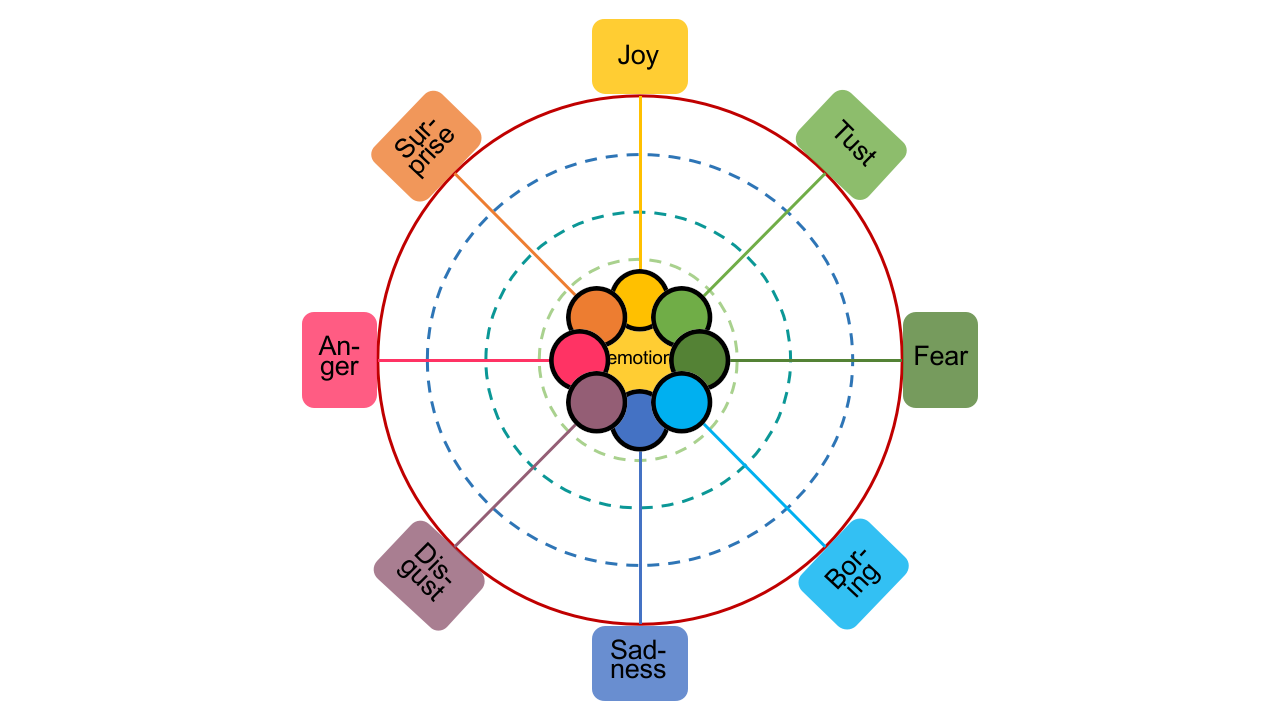
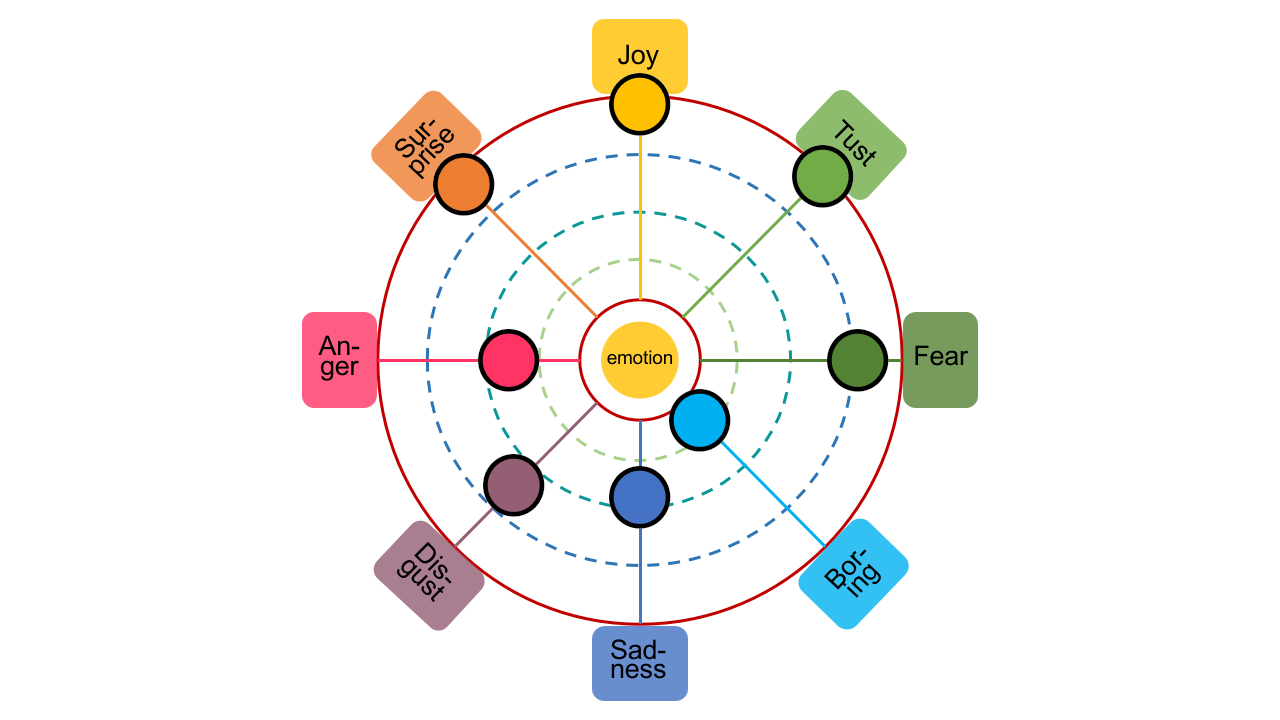
情感模块添加FAKE随机；行为模块发布UI专属指令

diff --git a/emotion_module/scripts/Data_processing.py b/emotion_module/scripts/Data_processing.py
@@ -18,6 +18,7 @@ from visualize_3d import *
 from social_msg.msg import robot_emotion
 from collections import deque
 from social_msg.msg import attitude_query  
+import random
 
 ##### 全局参数初始化
 local_attitude_set =[]
@@ -76,14 +77,52 @@ def publish():
        '''
        eval=robot_emotion()
        global current_e
-       eval.emotion1 = current_e[0]
-       eval.emotion2 = current_e[1]
-       eval.emotion3 = current_e[2]
-       eval.emotion4 = current_e[3]
-       eval.emotion5 = current_e[4]
-       eval.emotion6 = current_e[5]
-       eval.emotion7 = current_e[6]
-       eval.emotion8 = current_e[7]
+       # REAL
+       # eval.emotion1 = current_e[0]
+       # eval.emotion2 = current_e[1]
+       # eval.emotion3 = current_e[2]
+       # eval.emotion4 = current_e[3]
+       # eval.emotion5 = current_e[4]
+       # eval.emotion6 = current_e[5]
+       # eval.emotion7 = current_e[6]
+       # eval.emotion8 = current_e[7]
+       
+       # FAKE
+       if current_e[0]>current_e[3]-0.2:
+              random1 = random.uniform(0.5, 0.7)
+              eval.emotion1 = current_e[0] + random1
+              random2 = random.uniform(0.4, 0.5) 
+              eval.emotion2 = current_e[1] + random2
+              random3 = random.uniform(0.4, 0.5) 
+              eval.emotion3 = current_e[2] + random3
+              random4 = random.uniform(0.1, 0.4)
+              eval.emotion4 = current_e[3] + random4
+              random5 = random.uniform(0.1, 0.4)
+              eval.emotion5 = current_e[4] + random5
+              random6 = random.uniform(0.1, 0.4)
+              eval.emotion6 = current_e[5] + random6
+              random7 = random.uniform(0.1, 0.4)
+              eval.emotion7 = current_e[6] + random7
+              random8 = random.uniform(0.1, 0.2)
+              eval.emotion8 = current_e[7] + random8
+       else:
+              random1 = random.uniform(0.1, 0.4)
+              eval.emotion1 = current_e[0] + random1
+              random2 = random.uniform(0.1, 0.4)
+              eval.emotion2 = current_e[1] + random2
+              random3 = random.uniform(0.1, 0.4)
+              eval.emotion3 = current_e[2] + random3
+              random4 = random.uniform(0.4, 0.5) 
+              eval.emotion4 = current_e[3] + random4
+              random5 = random.uniform(0.4, 0.5) 
+              eval.emotion5 = current_e[4] + random5
+              random6 = random.uniform(0.4, 0.5) 
+              eval.emotion6 = current_e[5] + random6
+              random7 = random.uniform(0.4, 0.5) 
+              eval.emotion7 = current_e[6] + random7
+              random8 = random.uniform(0.1, 0.2)
+              eval.emotion8 = current_e[7] + random8
+
        pub.publish(eval)
        if print_state:
               rospy.loginfo("机器人情感: %f,%f,%f,%f,%f,%f,%f,%f\n", eval.emotion1,eval.emotion2,eval.emotion3,eval.emotion4,eval.emotion5,eval.emotion6,eval.emotion7,eval.emotion8 )
@@ -98,6 +137,7 @@ def caculate_edelta(csv_name,index_name,index_val,column_val):
        :param column_val: 传入的消息内容中对应列索引值大小
        :output t: 依据消息和csv文档索引得到的情绪变化强度值
        '''
+       print('[debug]csv_name:',csv_name)
        tmp_lst = []
        with open(csv_name, 'r') as f:
               reader = csv.reader(f)
@@ -129,7 +169,7 @@ def unique_judge(msg):
               #print("unique_msg:",unique_msg)
               flag=0;
               l=copy.deepcopy(unique_msg)
-              # 判断两个消息列表中差集元素是否大于1
+              # 判断两个消息列表中差集元素是否大于1wu
               if len(set(l[-1]).symmetric_difference(set(msg)))>2:
                      unique_msg.append(msg)
                      flag=1

diff --git a/emotion_module/scripts/Image_talker.py b/emotion_module/scripts/Image_talker.py
@@ -4,20 +4,21 @@
 import rospy
 import os
 from std_msgs.msg import Header
-from sensor_msgs.msg import Image
+from sensor_msgs.msg import CompressedImage
 import cv2
 import numpy as np
 import time
+from cv_bridge import CvBridge
 IMAGE_WIDTH=1280
 IMAGE_HEIGHT=720
 
 rospy.init_node('Image_talker', anonymous=True)
-pub = rospy.Publisher('emotion_img', Image, queue_size=1)
-rate = rospy.Rate(1) # 1hz
+pub = rospy.Publisher('emotion_img', CompressedImage, queue_size=1)
+rate = rospy.Rate(3) # 1hz
 
 def publish_image(imgdata):
     while not rospy.is_shutdown():
-        image_temp=Image()
+        image_temp=CompressedImage()
         header = Header(stamp=rospy.Time.now())
         header.frame_id = 'map'
         image_temp.height=IMAGE_HEIGHT
@@ -36,20 +37,16 @@ def publish_image2(imgdata):
     while not rospy.is_shutdown():
         current_folder = os.path.dirname(os.path.abspath(__file__))
         print("Current folder:", current_folder)
-        imgdata=cv2.imread('/home/peng/codes/project3_ws/src/FaboEmotionNeedBehavior/emotion_module/image/emotion_img.png')      
-        image_temp=Image()
-        header = Header(stamp=rospy.Time.now())
-        header.frame_id = 'map'
-        image_temp.height=IMAGE_HEIGHT
-        image_temp.width=IMAGE_WIDTH
-        image_temp.encoding='rgb8'
-        image_temp.data=np.array(imgdata).tostring()
-        #print(imgdata)
-        #image_temp.is_bigendian=True
-        image_temp.header=header
-        image_temp.step=1241*3
-        pub.publish(image_temp)
-        rospy.loginfo("图片成功发布")
+        imgdata=cv2.imread('/home/peng/codes/project3_ws/src/FaboEmotionNeedBehavior/emotion_module/image/emotion_img.png')  
+        # print("width:%d",imgdata.shape[1])
+        # print("height:%d",imgdata.shape[0])
+        if imgdata is not None:
+            imgdata = imgdata[0:720,280:1000]    
+            # print("width2:%d",imgdata.shape[1])
+            # print("height2:%d",imgdata.shape[0])
+            image_temp=CvBridge().cv2_to_compressed_imgmsg(imgdata,'jpg')
+            pub.publish(image_temp)
+            rospy.loginfo("图片成功发布")
         rate.sleep()
 
 if __name__ == '__main__':

diff --git a/emotion_module/scripts/main.py b/emotion_module/scripts/main.py
@@ -17,6 +17,7 @@ from social_msg.msg import attitude_set
 from social_msg.msg import perception_msg
 from social_msg.msg import attitude_query  
 from social_msg.msg import idleState
+import random
 # 是否开始print
 print_state = True
 
@@ -152,6 +153,41 @@ def visualization():
         '''
         e_list =['{:.4f}'.format(i) for i in current_e]
         e_list=[float(i) for i in e_list] #当前情绪强度向量
+        # FAKE
+        if e_list[0]>e_list[3]-0.2:
+              random1 = random.uniform(0.5, 0.7)
+              e_list[0] = e_list[0] + random1
+              random2 = random.uniform(0.4, 0.5) 
+              e_list[1] = e_list[1] + random2
+              random3 = random.uniform(0.4, 0.5) 
+              e_list[2] = e_list[2] + random3
+              random4 = random.uniform(0.1, 0.4)
+              e_list[3] = e_list[3] + random4
+              random5 = random.uniform(0.1, 0.4)
+              e_list[4] = e_list[4] + random5
+              random6 = random.uniform(0.1, 0.4)
+              e_list[5] = e_list[5] + random6
+              random7 = random.uniform(0.1, 0.4)
+              e_list[6] = e_list[6] + random7
+              random8 = random.uniform(0.1, 0.2)
+              e_list[7] = e_list[7] + random8
+        else:
+              random1 = random.uniform(0.1, 0.4)
+              e_list[0] = e_list[0] + random1
+              random2 = random.uniform(0.1, 0.4)
+              e_list[1] = e_list[1] + random2
+              random3 = random.uniform(0.1, 0.4)
+              e_list[2] = e_list[2] + random3
+              random4 = random.uniform(0.4, 0.5) 
+              e_list[3] = e_list[3] + random4
+              random5 = random.uniform(0.4, 0.5) 
+              e_list[4] = e_list[4] + random5
+              random6 = random.e_list(0.4, 0.5) 
+              e_list[5] = e_list[5] + random6
+              random7 = random.uniform(0.4, 0.5) 
+              e_list[6] = e_list[6] + random7
+              random8 = random.uniform(0.1, 0.2)
+              e_list[7] = e_list[7] + random8
        
         wheel_img=os.path.join(root, "image/Plutchik's_Wheel.png")
         img = Image.open(wheel_img)

diff --git a/behavior_module/src/BehaviorManager.cpp b/behavior_module/src/BehaviorManager.cpp
@@ -16,6 +16,7 @@ void BehaviorManager::PrintBehaviorseries()
     PrintBehaviors(mvbehaviorsTotal);
     printInColor("- BehaviorsCurrent: \n", CYAN);
     PrintBehaviors(mvbehaviorsCurrent);
+    Publish_UI_Behaviors(mvbehaviorsCurrent);
 
     cout << endl;
     cout << " - 行为停止后有待并行的行为数量 :" << mParallelNum << endl;
@@ -34,6 +35,11 @@ void BehaviorManager::PrintBehaviorMsgInfo(social_msg::behavior_msg msg)
         cout << "," << (int)msg.occupancy[i];
     }
     cout << "}" << endl << endl;
+}
+
+void BehaviorManager::Publish_UI_Behaviors(vector<Behavior> &behaviors){
+    social_msg::behavior_msg msg = GenerateBehaviorMsg(behaviors[0]);
+    publisher_ui_behavior_.publish(msg);
 }
 
 void BehaviorManager::PrintBehaviors(vector<Behavior> &behaviors)
@@ -80,6 +86,7 @@ BehaviorManager::BehaviorManager(ros::NodeHandle& n, string data_path):n_(n)
     printInColor(" Welcome to use behavior_module! \n", BLUE);
     printInColor("==================================\n", BLUE);
     publisher_behavior_ = n_.advertise<social_msg::behavior_msg>("/BehaviorInstruction", 1000);
+    publisher_ui_behavior_ = n_.advertise<social_msg::behavior_msg>("/ui_BehaviorInstruction", 1000);
     publisher_idlestate_ = n_.advertise<social_msg::idleState>("/idleState",1000);
     publisher_behavior_list_ = n_.advertise<social_msg::behavior_list>("/BehaviorList",1000);
     subscriber_need_ = n_.subscribe("/need_lists", 1000, &BehaviorManager::need_msg_callback, this);

diff --git a/need_module/core/need_model.cpp b/need_module/core/need_model.cpp
@@ -24,6 +24,9 @@ ros::Subscriber sub_robot_emotion;
 ros::Subscriber sub_robot_status;
 ros::Publisher pub;  //need
 ros::Publisher query_attitude;
+ros::Publisher pub_perception;
+ros::Publisher pub_feedback;
+
 ros::Subscriber sub_idleState;
 //全局变量: 
 bool print_status = false;  //是否实时输出需求模块的状态，默认不输出
@@ -118,6 +121,9 @@ void PerceptionUpdate(const social_msg::perception_msg& msg){
     
     // // 【暂时】需求满足节点,生成need_satisfied
     // need_satisfied.perception_to_needSatisfied( per );
+
+    // 转发
+    pub_perception.publish(per);
 }
 
 void RobotEmotionUpdate(const social_msg::robot_emotion& msg){
@@ -233,6 +239,10 @@ int main(int argc, char** argv){
     
     // 需求发布
     pub = n.advertise<social_msg::need_msg>("need_lists", 10);  
+
+    // 课题二转发
+    pub_perception = n.advertise<social_msg::perception_msg>("new_perception_msg", 10);  
+    pub_feedback = n.advertise<social_msg::feedback_msg>("new_feedback_msg", 10);  
 
     // 社交态度查询
     query_attitude = n.advertise<social_msg::attitude_query>("attitude_query", 1);  

diff --git a/behavior_module/include/BehaviorManager.h b/behavior_module/include/BehaviorManager.h
@@ -199,6 +199,7 @@ public:
 private:
     ros::NodeHandle n_;
     ros::Publisher publisher_behavior_;
+    ros::Publisher publisher_ui_behavior_;
     ros::Publisher publisher_behavior_list_;
     ros::Publisher publisher_idlestate_;
     ros::Subscriber subscriber_behavior_feedback_;
@@ -245,6 +246,8 @@ private:
     void PrintBehaviorseries();
 
     void PrintBehaviors(vector<Behavior> &behaviors);
+
+    void Publish_UI_Behaviors(vector<Behavior> &behaviors);
 
     void PrintBehaviorMsgInfo(social_msg::behavior_msg);
 

diff --git a/need_module/include/need_model/common_include.h b/need_module/include/need_model/common_include.h
@@ -55,6 +55,7 @@
 #include "social_msg/idleState.h"
 #include "dynamic_reconfigure/server.h" 
 
+#include "social_msg/feedback_msg.h"
 
 // #include "perception.h"
 
